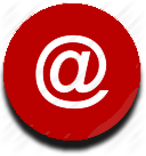
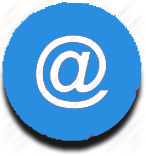
making changes to add side nav bar and tooltips

diff --git a/index.html b/index.html
@@ -13,17 +13,26 @@
   <header id='head'>
       <div class="container">
           <div class="title"><h1>Chethana <span class="red">Wijesekera</span></h1></div>
-          <nav>
-              <ul>
-                  <li><a href="#profile">Profilerr</a></li>
-                  <li><a href="#edu">Education</a></li>
-                  <li><a href="#skills">Skills</a></li>
-                  <li><a href="#contact">Contact</a></li>
-              </ul>
-          </nav>
       </div>
 
   </header>
+  <nav class="side-nav">
+      <ul>
+          <li><span class="menu-slide">Profile</span></li>
+          <li>x</li>
+          <li>x</li>
+          <li>x</li>
+          <li>x</li>
+      </ul>
+  </nav>
+  <!--<section id="greeting">
+      <div class="entry-banner">
+        <h1>Hi</h1>
+        <h1>I'm <span class="red">Chet</span></h1>
+      </div>
+
+  </section>-->
+
   <section id="profile">
     <div class="container" class="fade">
         <h2 class="heading">Profile</h2>
@@ -34,11 +43,11 @@
         <h2 class="heading">Education</h2>
         <div class="schools">
             <div class="school">
-                <img src="./resources/school.png" class="school-img"><br>
+                <img src="./resources/school2.png" class="school-img"><br>
                 Victoria University of Wellington<br>(Mar 2015 - present)
             </div>
             <div class="school">
-                <img src="./resources/school.png" class="school-img"><br>
+                <img src="./resources/school2.png" class="school-img"><br>
                 Upper Hutt College<br>(Feb 2010 - Nov 2014)
             </div>
         </div>
@@ -98,7 +107,7 @@
                 data: [12, 19, 3, 5, 2, 3],
                 label: "Technical Skills",
                 fill: false,
-                backgroundColor: "rgba(189, 0, 0, 1)",
+                backgroundColor: "rgba(40, 142, 223, 1)",
                 borderCapStyle: 'butt',
                 borderDash: [],
                 borderDashOffset: 0.0,
@@ -110,19 +119,19 @@
             scales: {
                 yAxes: [{
                     ticks: {
-                        fontColor: 'white'
+                        fontColor: 'black'
                     }
                 }],
                 xAxes: [{
                   ticks: {
-                    fontColor: "white",
+                    fontColor: "black",
                     beginAtZero:true
                   }
                 }]
             },
             legend: {
               labels: {
-                fontColor: 'white'
+                fontColor: 'black'
               }
             }
         }
@@ -140,8 +149,7 @@
                 data: [12, 19, 3, 5, 2, 3],
                 label: "Professional Skills",
                 fill: false,
-                backgroundColor: "rgba(189, 0, 0, 1)",
-                borderColor: "rgba(255,255,255,1)",
+                backgroundColor: "rgba(40, 142, 223, 1)",
                 borderCapStyle: 'butt',
                 borderDash: [],
                 borderDashOffset: 0.0,
@@ -153,19 +161,19 @@
             scales: {
                 yAxes: [{
                     ticks: {
-                        fontColor: 'white'
+                        fontColor: 'black'
                     }
                 }],
                 xAxes: [{
                   ticks: {
-                    fontColor: "white",
+                    fontColor: 'black',
                     beginAtZero:true
                   }
                 }]
             },
             legend: {
               labels: {
-                fontColor: 'white'
+                fontColor: 'black'
               }
             }
         }

diff --git a/resources/style.css b/resources/style.css
@@ -3,15 +3,48 @@ html{
 }
 
 body{
-  background-color: #222222;
+  background-color: #FFFFFF;
   font-family: 'Roboto';
-  color: #FFFFFF;
+  color: #000000;
   overflow-x: hidden;
   overflow-y: auto;
   margin: 0 !important;
   padding: 0 !important;
 
 
+}
+
+.side-nav{
+  position: fixed;
+  padding-left: 90%;
+  padding-top: 25%;
+  text-align: right;
+}
+
+.side-nav ul{
+  list-style: square;
+}
+
+.side-nav ul li{
+  border: solid;
+  padding-bottom: 10px;
+}
+
+.side-nav ul li:hover{
+  transition: all .2s ease-in-out;
+  transform: scale(1.1);
+
+}
+
+.menu-slide{
+  padding: none;
+  margin-right: 12px;
+  border: solid;
+  display: none;
+}
+
+.side-nav ul li:hover + .menu-slide{
+  display: block;
 }
 
 .back{
@@ -21,14 +54,14 @@ body{
   background-size: cover;
   background-repeat: no-repeat;
   border-bottom: solid;
-  border-bottom-color: #BB0000;
+  border-bottom-color: #288edf;
   padding-top: 40px;
 }
 
 
 a{
   text-decoration: none;
-  color: #FFFFFF;
+  color: #000000;
 }
 
 
@@ -40,7 +73,7 @@ li a:before{
   height: 2px;
   bottom: 0;
   left: 0;
-  background-color: #FFFFFF;
+  background-color: #288edf;
   visibility: hidden;
   -webkit-transform: scaleX(0);
   transform: scaleX(0);
@@ -61,19 +94,20 @@ ul{
 }
 
 .red{
-  color: #BB0000;
+  color: #288edf;
 }
 
 header{
-  border-bottom: solid;
-  border-color: #BB0000;
+  border-bottom: none;
+  border-color: #288edf;
   margin-top: -10px;
   min-height: 70px;
   width: 100%;
   position: fixed;
-  background-color: #222222;
-  box-shadow: 0 8px 8px 0 rgba(0, 0, 0, 0.2), 0 6px 20px 0 rgba(0, 0, 0, 0.19);
+  background-color: #FFFFFF;
+  box-shadow: 0 8px 8px 0 rgba(0, 0, 0, 0.2), 0 6px 5px 0 rgba(0, 0, 0, 0.19);
   z-index: 10;
+
 }
 
 header h1{
@@ -113,7 +147,7 @@ nav{
 }
 
 .heading{
-  color: #FFFFFF;
+  color: #000000;
 
 }
 
@@ -121,10 +155,10 @@ nav{
 section {
   padding-top: 10px;
   border: none;
-  background-color: rgba(51, 51, 51, 0.9);
-  border-bottom: solid;
-  border-color: #BB0000;
-  box-shadow: 0 8px 8px 0 rgba(0, 0, 0, 0.2), 0 6px 20px 0 rgba(0, 0, 0, 0.19);
+  background-color: #f0f2f3;
+  border-bottom: none;
+  border-color: #288edf;
+
 }
 
 section .container{
@@ -134,12 +168,29 @@ section .container{
 }
 
 section .container h2{
+  text-align: center;
+  font-size: 20pt;
   opacity: 1;
+  color: #288edf;
+}
+
+#greeting{
+  height: 500px;
+}
+
+#greeting .entry-banner{
+  text-align: center;
+  padding-top: 12%;
+}
+
+#greeting .entry-banner h1{
+  font-size: 34pt;
 }
 
 #profile{
   padding-top: 100px;
-  background-image: url("wellington-sign.png");
+  background-color: #deeff8;
+  background-position: #f0f2f3;
   background-position: top;
   background-attachment: fixed;
   background-repeat: no-repeat;
@@ -147,15 +198,18 @@ section .container h2{
   z-index: 0;
 }
 
-#skills{
-  background-image: url("tech-skills.png");
-  background-color: #222222;
-  background-size: contain;
-  background-position: center;
-  background-attachment: fixed;
-  background-repeat: no-repeat;
+#edu{
+  background-color: #f0f2f3;
+}
 
+
+#skills{
   z-index: 0;
+  background-color: #deeff8;
+}
+
+#contact{
+  background-color: #f0f2f3;
 }
 
 #skills .container{
@@ -221,13 +275,14 @@ section .heading{
   transform: scale(1.1);
 }
 
+
 footer .container{
-  background-color: #222222;;
   text-align: center;
   width: 100%;
   padding: 0 20px 0 20px;
-
 }
+
+
 
 footer p{
   padding: 20px 0 20px 0;
@@ -287,7 +342,7 @@ footer p{
     background-size: contain;
     background-repeat: no-repeat;
     border-bottom: solid;
-    border-bottom-color: #BB0000;
+    border-bottom-color: #288edf;
 
   }
 }
